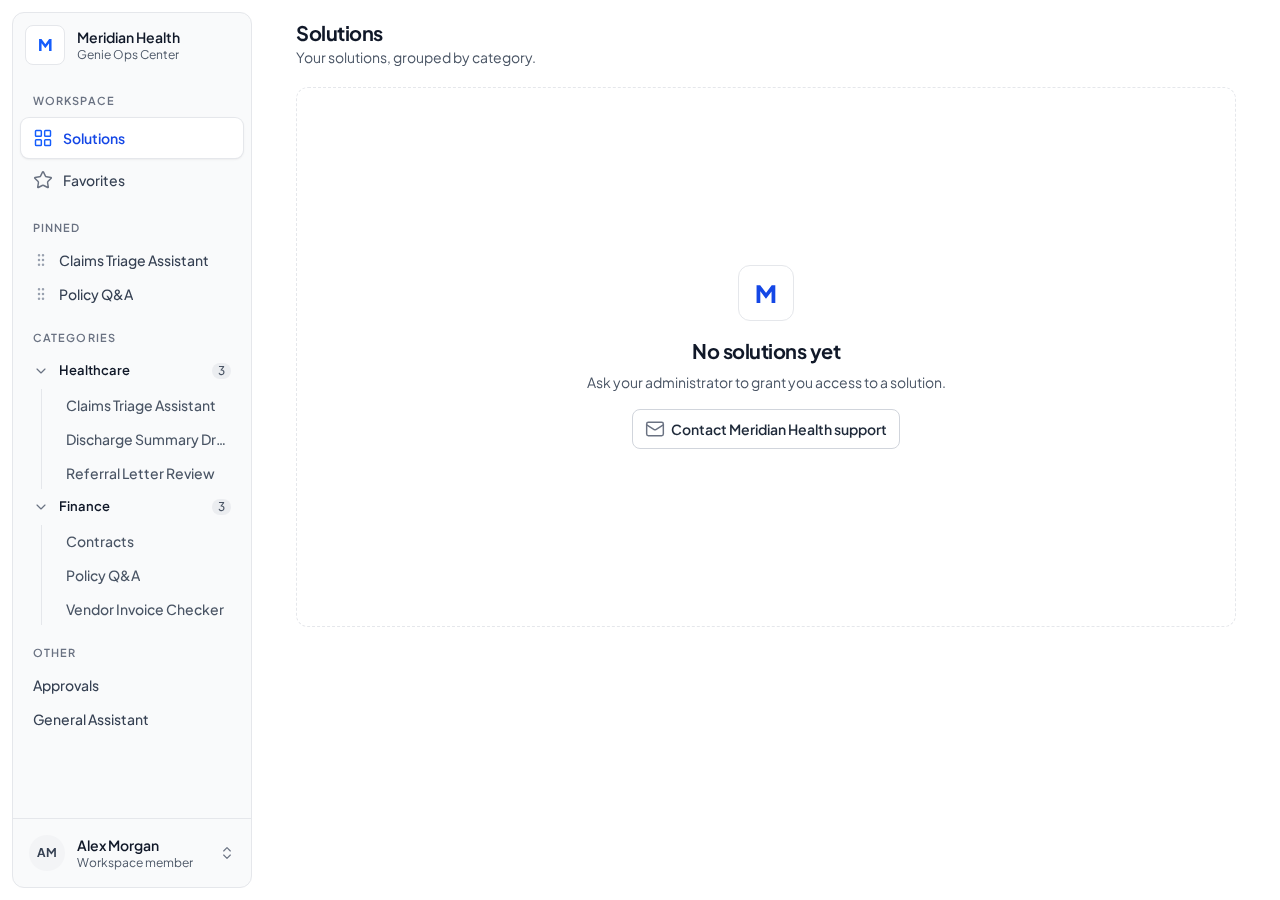
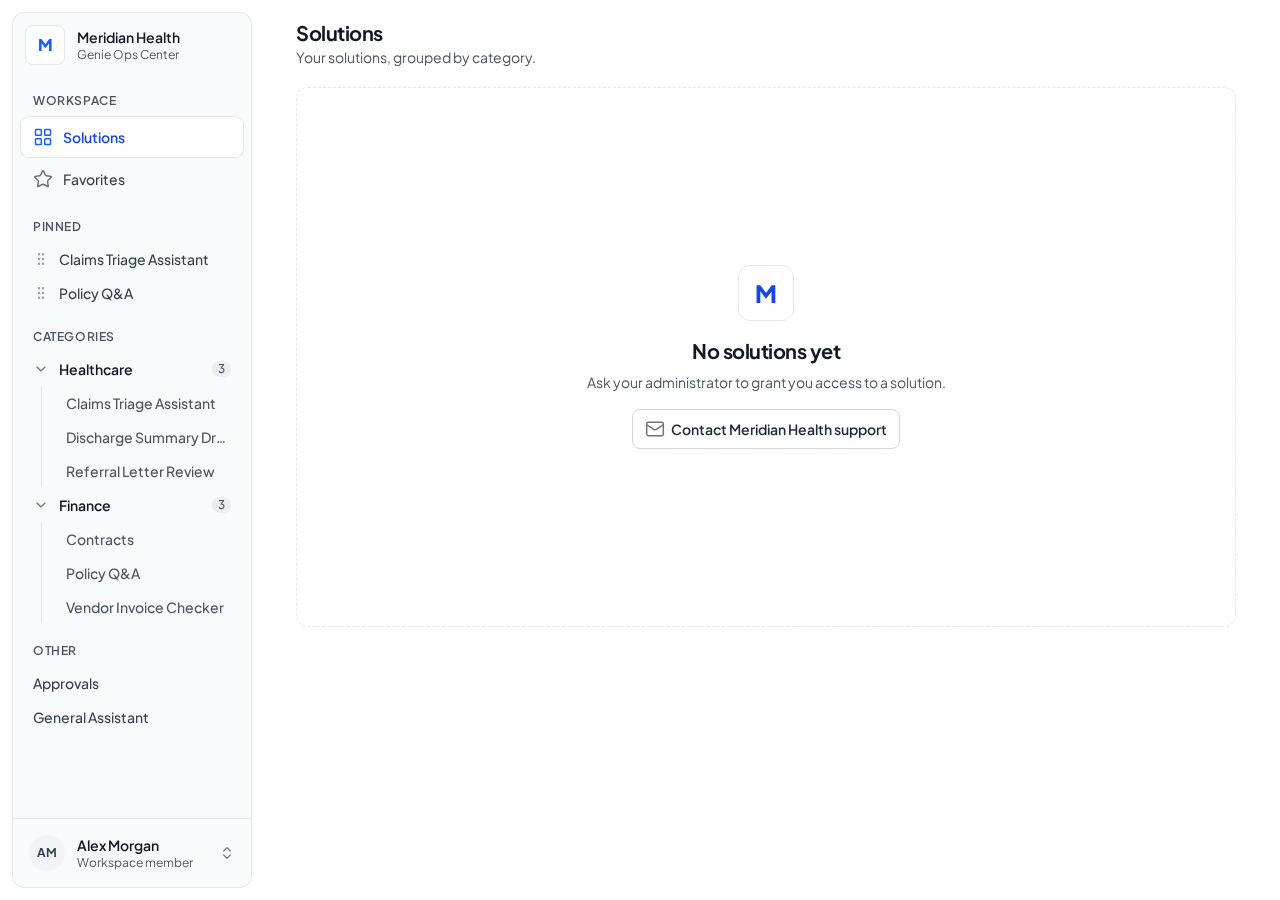
docs(design): update account and inbox section
Shared overlay and button style fixes with recaptured screens.

diff --git a/docs/design/reference/sections/account-and-inbox/components/helpers.ts b/docs/design/reference/sections/account-and-inbox/components/helpers.ts
@@ -1,8 +1,8 @@
 export const focusRing = 'outline-none focus-visible:ring-2 focus-visible:ring-blue-500 focus-visible:ring-offset-2 dark:focus-visible:ring-blue-400 dark:focus-visible:ring-offset-gray-950'
 
 export const btnSecondary = `inline-flex h-10 items-center whitespace-nowrap gap-1.5 rounded-lg border border-gray-300 bg-white px-3 text-sm font-semibold text-gray-800 transition-colors hover:bg-gray-50 disabled:cursor-not-allowed disabled:opacity-50 dark:border-gray-700 dark:bg-gray-950 dark:text-gray-100 dark:hover:bg-gray-900 ${focusRing}`
-export const btnPrimary = `inline-flex h-10 items-center whitespace-nowrap gap-1.5 rounded-lg bg-blue-600 px-3.5 text-sm font-semibold text-white shadow-sm shadow-blue-600/20 transition-colors hover:bg-blue-600/90 active:bg-blue-600/80 disabled:opacity-50 disabled:cursor-not-allowed disabled:hover:bg-blue-600 ${focusRing}`
-export const btnDanger = `inline-flex h-10 items-center whitespace-nowrap gap-1.5 rounded-lg bg-red-600 px-3.5 text-sm font-semibold text-white shadow-sm shadow-red-600/20 transition-colors hover:bg-red-600/90 active:bg-red-600/80 disabled:opacity-50 disabled:cursor-not-allowed disabled:hover:bg-red-600 ${focusRing}`
+export const btnPrimary = `inline-flex h-10 items-center whitespace-nowrap gap-1.5 rounded-lg bg-blue-600 px-3.5 text-sm font-semibold text-white transition-colors hover:bg-blue-600/90 active:bg-blue-600/80 disabled:opacity-50 disabled:cursor-not-allowed disabled:hover:bg-blue-600 ${focusRing}`
+export const btnDanger = `inline-flex h-10 items-center whitespace-nowrap gap-1.5 rounded-lg bg-red-600 px-3.5 text-sm font-semibold text-white transition-colors hover:bg-red-600/90 active:bg-red-600/80 disabled:opacity-50 disabled:cursor-not-allowed disabled:hover:bg-red-600 ${focusRing}`
 export const inputClass = `h-10 w-full rounded-lg border border-gray-500 bg-white px-3 text-sm text-gray-900 dark:border-gray-500 dark:bg-gray-950 dark:text-gray-100 ${focusRing}`
 
 export function relativeTime(iso: string, now = new Date('2026-09-16T09:45:00Z')) {

diff --git a/docs/design/reference/sections/account-and-inbox/components/AccountPage.tsx b/docs/design/reference/sections/account-and-inbox/components/AccountPage.tsx
@@ -321,7 +321,7 @@ export function AccountPage({ user, groups, sessions, preference, roleGrants, on
                   role="radio"
                   aria-checked={theme === t}
                   onClick={() => changePref('theme', t)}
-                  className={`h-8 rounded-lg px-3.5 text-sm font-medium transition-colors ${focusRing} ${theme === t ? 'bg-white text-gray-900 shadow-sm dark:bg-gray-950 dark:text-gray-100' : 'text-gray-600 hover:text-gray-900 dark:text-gray-400 dark:hover:text-gray-100'}`}
+                  className={`h-8 rounded-lg px-3.5 text-sm font-medium transition-colors ${focusRing} ${theme === t ? 'bg-white text-gray-900 ring-1 ring-gray-200 dark:bg-gray-950 dark:text-gray-100 dark:ring-gray-700' : 'text-gray-600 hover:text-gray-900 dark:text-gray-400 dark:hover:text-gray-100'}`}
                 >
                   {themeLabel[t]}
                 </button>
